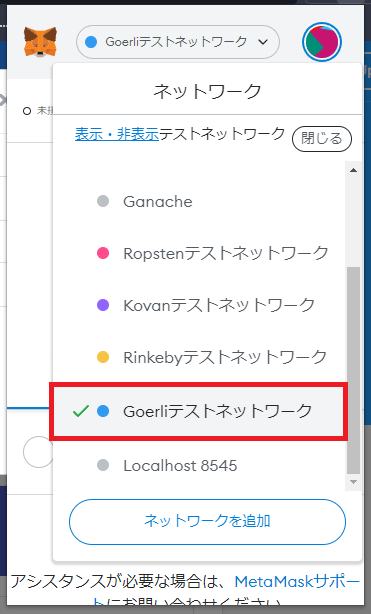
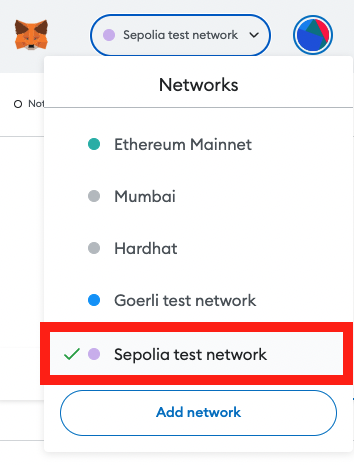
fix: change network from goerli to sepolia

diff --git a/docs/ETH-NFT-Collection/ja/section-3/lesson-3_WEBアプリからコントラクトを呼び出そう.md b/docs/ETH-NFT-Collection/ja/section-3/lesson-3_WEBアプリからコントラクトを呼び出そう.md
@@ -23,7 +23,7 @@ import { ethers } from "ethers";
 // App.js
 const askContractToMintNft = async () => {
   const CONTRACT_ADDRESS =
-    "ここに Goerli Test Network にデプロイしたコントラクトのアドレスを貼り付けてください";
+    "ここに Sepolia Test Network にデプロイしたコントラクトのアドレスを貼り付けてください";
   try {
     const { ethereum } = window;
     if (ethereum) {
@@ -40,7 +40,7 @@ const askContractToMintNft = async () => {
       await nftTxn.wait();
 
       console.log(
-        `Mined, see transaction: https://goerli.etherscan.io/tx/${nftTxn.hash}`
+        `Mined, see transaction: https://sepolia.etherscan.io/tx/${nftTxn.hash}`
       );
     } else {
       console.log("Ethereum object doesn't exist!");
@@ -56,7 +56,7 @@ const askContractToMintNft = async () => {
 ```javascript
 // App.js
 const CONTRACT_ADDRESS =
-  "ここに Goerli Test Network にデプロイしたコントラクトのアドレスを貼り付けてください";
+  "ここに Sepolia Test Network にデプロイしたコントラクトのアドレスを貼り付けてください";
 ```
 
 ここでは、コントラクトのアドレスを`CONTRACT_ADDRESS`に格納しています。
@@ -64,7 +64,7 @@ const CONTRACT_ADDRESS =
 **`epic-nfts`ディレクトリ上で、もう一度下記を実行し、コントラクトのアドレスを取得してください。**
 
 ```bash
-npx hardhat run scripts/deploy.js --network goerli
+npx hardhat run scripts/deploy.js --network sepolia
 ```
 
 貼り付けるアドレスの例は、以下のようになります。
@@ -158,7 +158,7 @@ console.log("Mining...please wait.");
 // App.js
 await nftTxn.wait();
 console.log(
-  `Mined, see transaction: https://goerli.etherscan.io/tx/${nftTxn.hash}`
+  `Mined, see transaction: https://sepolia.etherscan.io/tx/${nftTxn.hash}`
 );
 ```
 
@@ -318,13 +318,13 @@ Found an authorized account: 0x3a0a49fb3cf930e599f0fa7abe554dc18bd1f135
 currentAccount:  0x3a0a49fb3cf930e599f0fa7abe554dc18bd1f135
 Going to pop wallet now to pay gas...
 Mining...please wait.
-Mined, see transaction: https://goerli.etherscan.io/tx/0x5a08f3e66852b5c1833f3a20fc292816bc2ec5a25eee1e8c83c3755000aa773a
+Mined, see transaction: https://sepolia.etherscan.io/tx/0x5a08f3e66852b5c1833f3a20fc292816bc2ec5a25eee1e8c83c3755000aa773a
 ```
-Consoleに出力された`https://goerli.etherscan.io/...`のアドレスをクリックしてみましょう。
+Consoleに出力された`https://sepolia.etherscan.io/...`のアドレスをクリックしてみましょう。
 
-- あなたのGoerli Test Network上のトランザクションの履歴が参照できます。
+- あなたのSepolia Test Network上のトランザクションの履歴が参照できます。
 
-次に、[テストネット用の OpenSea](https://testnets.opensea.io/) にアクセスして、MintしたNFTがあなたのGoerli Test Networkのアドレスに紐づいているか確認してみましょう。
+次に、[テストネット用の OpenSea](https://testnets.opensea.io/) にアクセスして、MintしたNFTがあなたのSepolia Test Networkのアドレスに紐づいているか確認してみましょう。
 
 Consoleに出力された`currentAccount:`に続く、`0x..`のアドレスをOpenSeaのWebサイトに貼り付けて、結果が表示されたら、画面右上の`Profile`メニューを選択してください。それから、ご自身のアカウントを開いて、NFTを確認してみましょう。
 
@@ -334,7 +334,7 @@ Consoleに出力された`currentAccount:`に続く、`0x..`のアドレスをOp
 
 **1 \. 再度、コントラクトをデプロイする。**
 
-- `npx hardhat run scripts/deploy.js --network goerli`を実行する必要があります。
+- `npx hardhat run scripts/deploy.js --network sepolia`を実行する必要があります。
 
 2 \. フロントエンド(`App.js`)の`CONTRACT_ADDRESS`を更新する。
 

diff --git a/docs/ETH-NFT-Collection/ja/section-4/lesson-2_Vercelにアプリをデプロイしよう.md b/docs/ETH-NFT-Collection/ja/section-4/lesson-2_Vercelにアプリをデプロイしよう.md
@@ -50,7 +50,7 @@ require("dotenv").config();
 module.exports = {
   solidity: "0.8.9",
   networks: {
-    goerli: {
+    sepolia: {
       url: process.env.STAGING_ALCHEMY_KEY,
       accounts: [process.env.PRIVATE_KEY],
     },
@@ -154,7 +154,7 @@ module.exports = {
     apiKey: process.env.ETHERSCAN_APIKEY
   },
   networks: {
-    goerli: {
+    sepolia: {
       url: process.env.STAGING_ALCHEMY_KEY,
       accounts: [process.env.PRIVATE_KEY],
     },
@@ -165,7 +165,7 @@ module.exports = {
 
 ```
 npx hardhat clean
-npx hardhat verify YOUR_CONTRACT_ADDRESS --network goerli
+npx hardhat verify YOUR_CONTRACT_ADDRESS --network sepolia
 ```
 
 下記のような結果が表示されれば、verificationは成功です。
@@ -176,12 +176,12 @@ contracts/MyEpicNFT.sol:MyEpicNFT at 0xB3340071dc206d09170a7269331155ff1BeE64de
 for verification on the block explorer. Waiting for verification result...
 
 Successfully verified contract MyEpicNFT on Etherscan.
-https://goerli.etherscan.io/address/0xB3340071dc206d09170a7269331155ff1BeE64de#code
+https://sepolia.etherscan.io/address/0xF7d8473eF4555B158689Ae8F3c1b39c246A1244E#code
 ```
 
 出力されたURLリンクをブラウザに貼り付け、中身を確認してみましょう。
 
-私の [URL リンク](https://goerli.etherscan.io/address/0xB3340071dc206d09170a7269331155ff1BeE64de#code) の中身は下記のように表示されます。
+私の [URL リンク](https://sepolia.etherscan.io/address/0xF7d8473eF4555B158689Ae8F3c1b39c246A1244E#code) の中身は下記のように表示されます。
 
 ![](/public/images/ETH-NFT-Collection/section-4/4_2_6.png)
 

diff --git a/docs/ETH-NFT-Collection/ja/section-2/lesson-3_ブロックチェーン上で動的なSVGを作ろう.md b/docs/ETH-NFT-Collection/ja/section-2/lesson-3_ブロックチェーン上で動的なSVGを作ろう.md
@@ -653,9 +653,9 @@ NFT Previewを使用すれば、テストネットにデプロイしなくても
 
 ![](/public/images/ETH-NFT-Collection/section-2/2_3_2.png)
 
-### 🚀 Goerli Test Network にデプロイする
+### 🚀 Sepolia Test Network にデプロイする
 
-下記コマンドをターミナルに入力し、Goerliに再度デプロイしましょう。
+下記コマンドをターミナルに入力し、Sepoliaに再度デプロイしましょう。
 
 `deploy.js`を下記のように更新してください。
 
@@ -692,7 +692,7 @@ runMain();
 ```
 
 ```bash
-npx hardhat run scripts/deploy.js --network goerli
+npx hardhat run scripts/deploy.js --network sepolia
 ```
 
 下記のような結果がターミナルに表示されていれば、テストネットへのデプロイは成功です。

diff --git a/docs/ETH-NFT-Collection/ja/section-2/lesson-2_静的なSVGデータを作ろう.md b/docs/ETH-NFT-Collection/ja/section-2/lesson-2_静的なSVGデータを作ろう.md
@@ -151,7 +151,7 @@ _setTokenURI(
 - 実行する際は、ターミナル上で`epic-nfts`ディレクトリにいることを確認してください。
 
 ```bash
-npx hardhat run scripts/deploy.js --network goerli
+npx hardhat run scripts/deploy.js --network sepolia
 ```
 
 ターミナルに下記のような結果が表示されていたら、デプロイ成功です。
